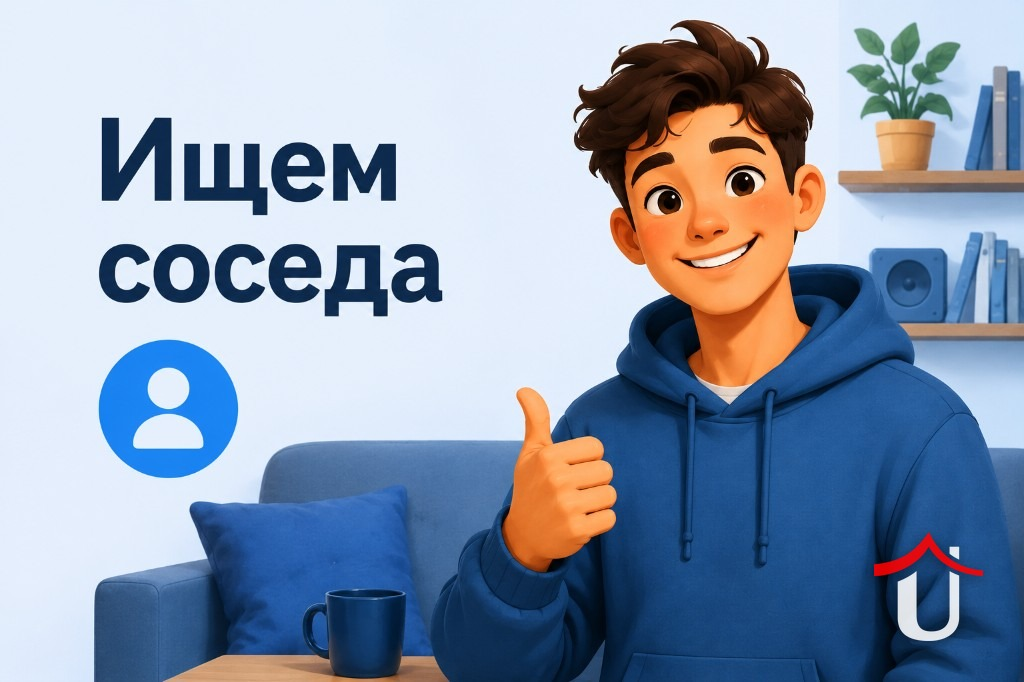
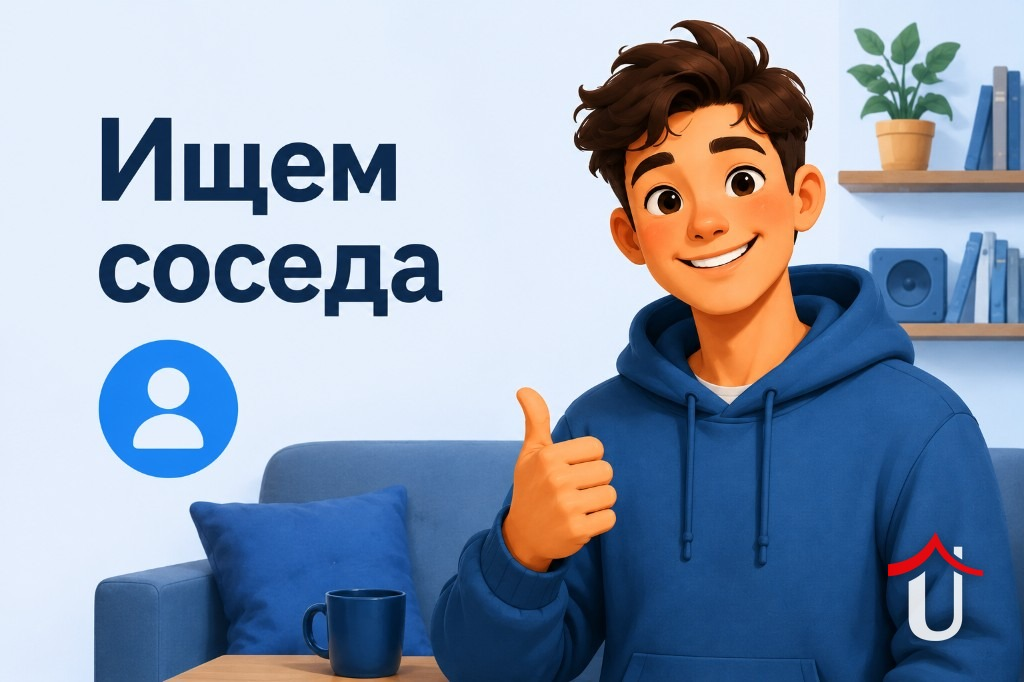
map fixes

Changed region(s): [[0.8438, 0.7698, 0.9688, 0.9545]]

diff --git a/assets/yandex-map.js b/assets/yandex-map.js
@@ -2441,11 +2441,17 @@
 
   /**
    * Moves the drag-hint bubble to sit just above the placemark's *current* on-screen
-   * position — called on every `drag` event so the bubble tracks the pin's finger/mouse
-   * position throughout the gesture instead of staying frozen at its initial (mount-time,
-   * CSS-centered) spot. Switches the bubble from the default percentage-based centering
-   * (`left: 50%` in `ensureDragHintStyles`) to explicit pixel coordinates — inline styles
-   * win over the class's rules, so this only takes effect once a drag actually starts.
+   * position — called on every `drag` event (marker dragged directly) *and* every
+   * `boundschange` event (map panned/zoomed underneath a marker that itself didn't
+   * move geographically) so the bubble tracks wherever the pin actually renders on
+   * screen throughout either gesture, instead of staying frozen at its initial
+   * (mount-time, CSS-centered) spot — panning the map alone doesn't fire the
+   * placemark's own `drag` event, so without the `boundschange` hookup the bubble
+   * would stay glued to the container's center (i.e. track the *map's* center) while
+   * the pin visibly slid out from under it. Switches the bubble from the default
+   * percentage-based centering (`left: 50%` in `ensureDragHintStyles`) to explicit
+   * pixel coordinates — inline styles win over the class's rules, so this only takes
+   * effect once one of those gestures actually starts.
    */
   function repositionDragHint(el, container, map, coordinates) {
     if (!el || !container || !map) return;
@@ -2590,11 +2596,20 @@
           placemark.events.remove('drag', followPinDuringDrag);
           placemark.events.remove('drag', stopBounceOnDrag);
           placemark.events.remove('dragend', dismissHint);
+          map.events.remove('boundschange', followPinDuringDrag);
           hint.remove();
         };
         placemark.events.add('drag', followPinDuringDrag);
         placemark.events.add('drag', stopBounceOnDrag);
         placemark.events.add('dragend', dismissHint);
+        // The marker itself has fixed geo-coordinates, so panning/zooming the
+        // *map* underneath it (as opposed to dragging the marker directly)
+        // never fires the placemark's own `drag` event — only the map's
+        // `boundschange` does. Without this, the bubble stayed glued to the
+        // container's center (i.e. it visually tracked the map's center)
+        // while the pin slid out from under it whenever the author panned
+        // the map instead of grabbing the pin.
+        map.events.add('boundschange', followPinDuringDrag);
       }
     }
     ensureMapInteractionStyles();

diff --git a/scripts/watermark-generic-images.py b/scripts/watermark-generic-images.py
@@ -64,9 +64,11 @@ def render_logo(render_px: int, u_color: str = "white") -> Image.Image:
         subprocess.run(
             [
                 "rsvg-convert",
+                # Only the width is pinned; height is left for rsvg-convert to
+                # derive from the SVG's native aspect ratio. Forcing both `-w`
+                # and `-h` to the same value stretches the artwork into a
+                # square and distorts the "U" glyph.
                 "-w",
-                str(render_px),
-                "-h",
                 str(render_px),
                 "-o",
                 tmp_png.name,
